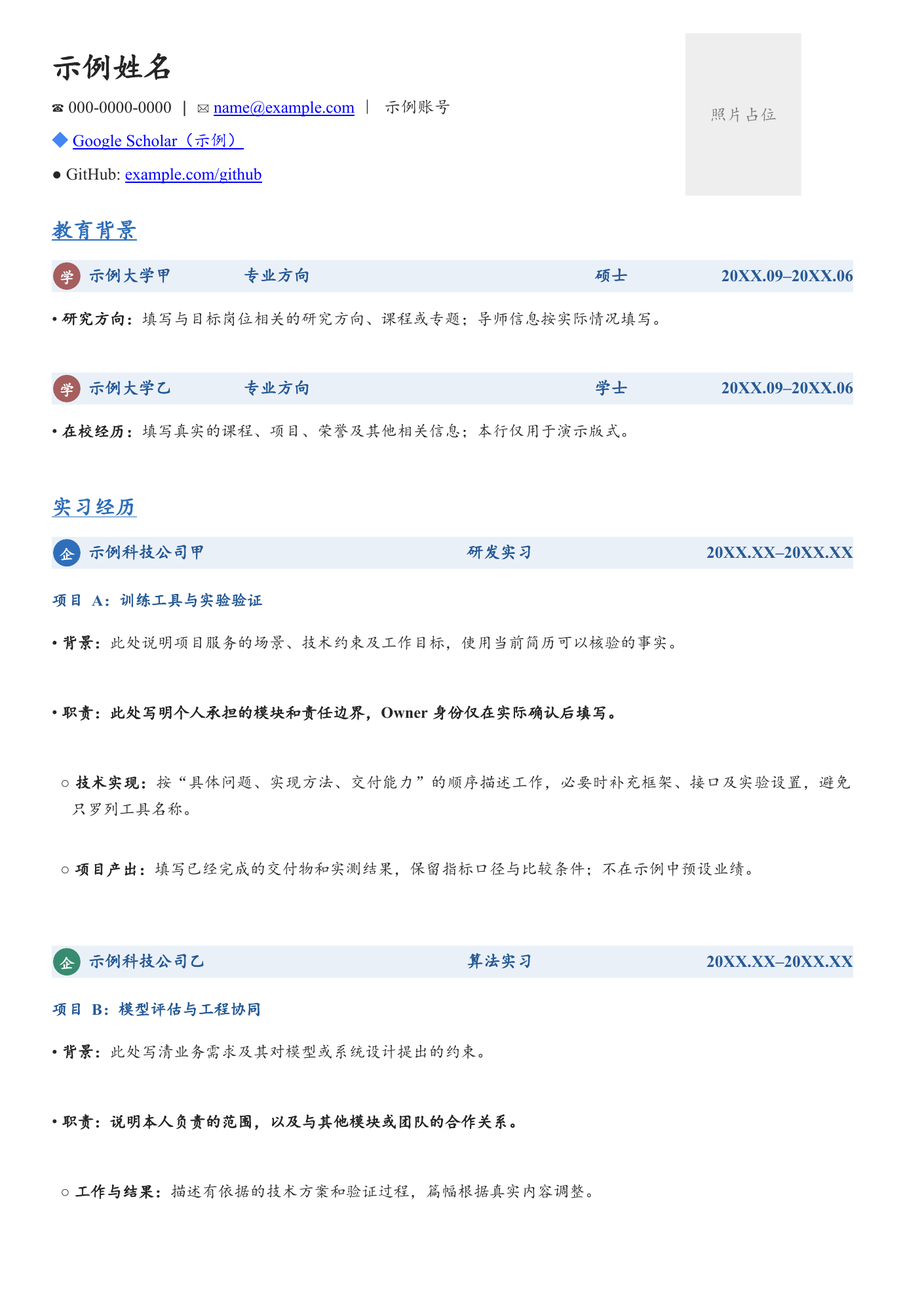
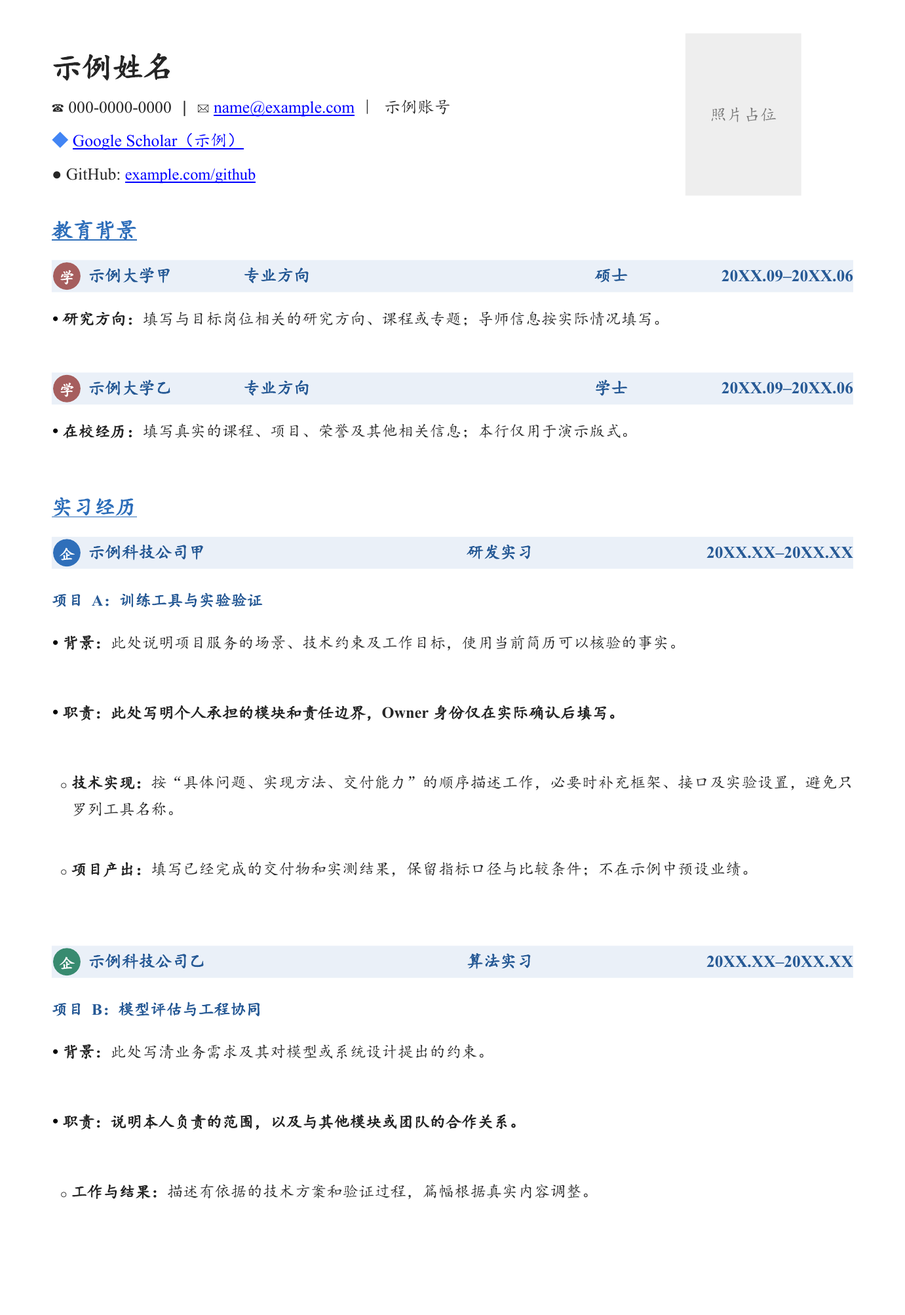
Enforce reference fonts and paragraph-level textboxes

diff --git a/scripts/docx_inventory.py b/scripts/docx_inventory.py
@@ -152,12 +152,71 @@ def relationships(archive, part):
     return result
 
 
+def summarize_structure(result):
+    """Describe logical paragraph ownership, not rendered lines or layout quality.
+
+    Indices refer to the existing, zero-based ``paragraphs`` list. Keep that
+    list unchanged for compatibility; whitespace-only entries are excluded
+    from these nonempty-paragraph statistics.
+    """
+    textboxes = {item["textbox_id"]: item for item in result["textboxes"]}
+    line_break_indices, body_indices, ordinary_body_indices = [], [], []
+    for index, paragraph in enumerate(result["paragraphs"]):
+        if not paragraph["text"].strip():
+            continue
+        context = paragraph["context"]
+        has_line_break = "\n" in paragraph["text"]
+        if has_line_break:
+            line_break_indices.append(index)
+        textbox_id = context["textbox_id"]
+        if textbox_id is not None:
+            textbox = textboxes[textbox_id]
+            textbox["paragraph_indices"].append(index)
+            if has_line_break:
+                textbox["line_break_paragraph_indices"].append(index)
+        elif context["story"] == "body":
+            body_indices.append(index)
+            if not context["in_table"]:
+                ordinary_body_indices.append(index)
+
+    for textbox in result["textboxes"]:
+        textbox["nonempty_paragraph_count"] = len(textbox["paragraph_indices"])
+        textbox["line_break_paragraph_count"] = len(textbox["line_break_paragraph_indices"])
+    multiple = [item["textbox_id"] for item in result["textboxes"]
+                if item["nonempty_paragraph_count"] > 1]
+    return {
+        "paragraph_index_base": 0,
+        "paragraph_index_source": "paragraphs",
+        "textbox_count": len(textboxes),
+        "nonempty_textbox_count": sum(bool(item["paragraph_indices"])
+                                      for item in result["textboxes"]),
+        "textbox_nonempty_paragraph_count": sum(item["nonempty_paragraph_count"]
+                                                for item in result["textboxes"]),
+        "multi_paragraph_textbox_count": len(multiple),
+        "multi_paragraph_textbox_ids": multiple,
+        "line_break_paragraph_count": len(line_break_indices),
+        "line_break_paragraph_indices": line_break_indices,
+        "body_nonempty_paragraph_count": len(body_indices),
+        "body_paragraph_indices": body_indices,
+        "ordinary_body_nonempty_paragraph_count": len(ordinary_body_indices),
+        "ordinary_body_paragraph_indices": ordinary_body_indices,
+        "limitations": [
+            "Counts use non-whitespace inline text in logical w:p paragraphs, after MC selection and accepted-view filtering.",
+            "Explicit w:br/w:cr stays inside its paragraph; automatic line wrapping is not a new paragraph.",
+            "Body counts exclude textboxes; ordinary body also excludes tables. Headers, footers, and notes are excluded from both.",
+            "Each textbox ID identifies one w:txbxContent in this inventory, not a persistent OOXML object ID.",
+            "These counts locate shared textboxes and explicit breaks; they do not establish independent movability, visibility, or layout quality.",
+        ],
+    }
+
+
 def inventory(filename):
     path = Path(filename).expanduser().resolve()
     raw = path.read_bytes()
     result = {"path": str(path), "sha256": hashlib.sha256(raw).hexdigest(),
               "paragraphs": [], "hyperlinks": [], "images": [], "anchors": [],
-              "vml_shapes": [], "math": [], "alternate_content": [], "warnings": []}
+              "vml_shapes": [], "math": [], "alternate_content": [], "warnings": [],
+              "textboxes": []}
     with zipfile.ZipFile(io.BytesIO(raw)) as archive:
         names = set(archive.namelist())
         package_rels = relationships(archive, "")
@@ -196,7 +255,10 @@ def inventory(filename):
                     result["warnings"].append(f"{part}: missing target {rel['resolved_target']}")
                 return dict(rel)
 
+            textbox_number = 0
+
             def walk(node, context):
+                nonlocal textbox_number
                 context = dict(context)
                 if node.tag in {q("w", "footnote"), q("w", "endnote")}:
                     context["note_id"] = node.get(q("w", "id"))
@@ -206,7 +268,18 @@ def inventory(filename):
                     dp = node.find(q("wp", "docPr"))
                     context["shape_id"] = dp.get("id") if dp is not None else None
                 if node.tag == q("w", "txbxContent"):
+                    # Grouped drawings can share shape_id. Identify the actual
+                    # content node after branch/revision selection instead.
+                    textbox_number += 1
+                    parent_textbox_id = context["textbox_id"]
+                    context["textbox_id"] = f"{part}#textbox-{textbox_number}"
                     context["container"] = "textbox"
+                    result["textboxes"].append({
+                        "part": part, "textbox_id": context["textbox_id"],
+                        "parent_textbox_id": parent_textbox_id,
+                        "context": dict(context), "paragraph_indices": [],
+                        "line_break_paragraph_indices": [],
+                    })
                 base = {"part": part, "context": dict(context)}
                 if node.tag == q("w", "p"):
                     value = text_of(node)
@@ -249,9 +322,11 @@ def inventory(filename):
                 for child in node:
                     walk(child, context)
 
-            walk(root, {"story": story, "container": "body", "in_table": False})
+            walk(root, {"story": story, "container": "body", "in_table": False,
+                        "textbox_id": None})
+    result["structure_summary"] = summarize_structure(result)
     result["counts"] = {key: len(result[key]) for key in (
-        "paragraphs", "hyperlinks", "images", "anchors", "vml_shapes", "math")}
+        "paragraphs", "hyperlinks", "images", "anchors", "vml_shapes", "math", "textboxes")}
     result["warnings"] = sorted(set(result["warnings"]))
     return result
 

diff --git a/references/layout.md b/references/layout.md
@@ -10,7 +10,7 @@
 
 样例只保留已确认的视觉参数，未复用用户原件中的文字、图片或二进制部件。所有人物、机构、经历、论文及日期均为虚构占位内容，所有链接使用 example.com 保留域名，照片为灰色占位框。机构和联系图标使用不指向真实个人或机构的示意符号；正式简历应替换为当前用户的真实材料和相应机构图标。
 
[2 lines of base64/hex data omitted]
 
 ## 必须保持的视觉特征
 
@@ -19,7 +19,7 @@
 3. 学校、公司抬头使用横贯正文宽度的主题浅色底条带，图标置左，机构名及专业或团队信息在左/中，学位、项目计划等在中后列对齐，日期靠右。
 4. 项目名采用同主题的深色变体加粗；背景、职责和技术分项采用圆点层级与加粗标签，正文清楚解释技术工作。
 5. 论文标题行使用英文衬线字体、斜体和适当加粗；突出当前简历作者的姓名，保留真实的共同一作等标记。其他论文形成紧凑列表。
-6. 标题、机构条带、项目内容与论文引用保留为原生可编辑对象，主要内容使用可移动文本框；不能用整页截图交付。
+6. 姓名、栏目标题、项目标题、每段正文、每条项目符号和每条论文引用分别使用原生独立文本框，能单独选中、编辑和移动；机构抬头按条分框并与背景、图标成组。不得把整段经历合成大框、改用表格单元格或整页截图交付。拆框粒度和检查方法见 [逐段独立文本框](word-editing.md#逐段独立文本框)。
 
 ## 图标派生配色
 
@@ -58,27 +58,49 @@
 | 页面 | 竖向，595.3 × 864.55 pt，约 210 × 305 mm；这是参考的自定义纸型，不称为标准 A4。用户指定 A4 时改为 A4 并重新排版。 |
 | 节页边距 | 左右 34 pt，上下 28.35 pt；浮动对象另有页面坐标，不能只用节边距推断实际左边界。 |
 | 主要内容宽度 | 527.3 pt；沿参考的实际内容左线对齐，按当前页宽与安全边界调整。 |
-| 中文字体 | 主要使用 KaiTi（楷体）。检查字体是否可用；如需兼容字体，使用接近的楷体并重新验证行数和分页。 |
-| 英文、数字 | Times New Roman；不要把英文技术名称统一改成无衬线字体。 |
+| 中文字体 | 姓名、栏目、机构、项目标题、正文、中文联系方式均为 KaiTi（楷体），包括中文标点。符号与公式除外。 |
+| 英文、数字 | Times New Roman，包括正文中的英文技术词、数字、机构抬头日期、论文及普通链接文字；不得统一成中文字体或默认无衬线字体。 |
 | 姓名 | 20 pt，黑灰色，加粗，左对齐。 |
 | 栏目标题 | 14 pt，可读主题色，加粗、下划线；下划线随标题，不延伸成横贯整页的大分隔线。 |
 | 机构抬头 | 11 pt，加粗，主题深色变体；保持同一条带内各字段的基线一致。 |
 | 项目标题 | 10.5 pt，加粗，主题深色变体；全篇同级项目保持一致。 |
-| 正文 | 主要为 10.5 pt，中文楷体、英文 Times New Roman，颜色 `#262626`；标签加粗，职责句可整体加粗，技术说明正文保持常规字重。 |
-| 联系信息 | 主要 11 pt；链接保持可点击及蓝色下划线，附属统计说明可以用 10 pt。 |
-| 论文题录 | 10.5 pt，Times New Roman，主要科研项目题录加粗、斜体；其他论文题录斜体、序号普通。当前作者名以可读主题色强调。 |
+| 正文 | 10.5 pt，中文楷体、英文 Times New Roman，颜色 `#262626`；标签加粗，职责句可整体加粗，技术说明正文保持常规字重。 |
+| 联系信息 | 电话、邮箱及 Scholar 主文字 11 pt；GitHub 标签 11 pt、URL 10.5 pt；Scholar 附属统计说明 10 pt。链接保持可点击及蓝色下划线，图标字号不套用为链接文字字号。 |
+| 论文题录 | 10.5 pt，中文 KaiTi、西文及数字 Times New Roman；主要科研项目题录加粗、斜体，其他论文题录斜体、序号普通。当前作者名以可读主题色强调。 |
+| 项目符号 | 一级实心符号用 Wingdings 的 `U+F09F`，10.5 pt；二级空心符号用 Courier New 的 `o`（`U+006F`），7.5 pt；符号字号不改变正文的 10.5 pt。使用原生编号定义与 `w:numPr`。 |
 | 机构条带底色 | 选定图标主色与白色混合；默认 10% 主色、90% 白色，可在 8–12% 主色间微调。无粗边框。 |
 | 机构条带尺寸 | 527.3 × 21.1 pt，文字左缩进 24 pt 为图标留空；长字段需要增高时保持字号和列关系。 |
 | 文本框内边距 | 通常左右 0、上下 2 pt，顶部对齐；框的存储高度不能替代渲染后的文字高度。 |
 
 不要把空白宿主段落的 1 pt 行距或其他不可见属性误当正文规范。读取任意源文档时，字号可能来自样式继承，不能只统计 `w:sz`。
 
+## 字体写入与验证
+
+字体表是需要落地的参数，不能只在说明中提及。整体任务对每个可见文字 run 设置以下映射，覆盖文本框、超链接及机构抬头里的文字；纯英文题录仍用 Times New Roman。
+
+```xml
+<w:rFonts w:ascii="Times New Roman" w:hAnsi="Times New Roman" w:eastAsia="KaiTi"/>
+<w:sz w:val="21"/>
+<w:szCs w:val="21"/>
+```
+
+上例是正文 10.5 pt；按上表将姓名、栏目、机构和联系方式替换为对应半磅值。只设置高层库的 `run.font.name` 通常只覆盖西文，必须同时设置 `w:eastAsia`；只改 Normal 样式不会覆盖已有 run 的直接格式。`w:szCs` 属于复杂文种字号，不能代替控制普通中西文的 `w:sz`。
+
+- 清理所修改文字的 `asciiTheme`、`hAnsiTheme`、`eastAsiaTheme` 等冲突主题字体属性，避免主题覆盖显式字体。每个 `rPr` 仅保留一个 `w:rFonts`，不反复追加重复节点。
+- 保留上表规定的粗体、斜体和下划线层级；不能把“统一字体”实现成所有文字同字号或全部加粗。
+- 项目符号或图标字形可使用其必要字体（如 Symbol、Wingdings），原生公式保留数学字体；它们是限定到对应字符的例外，不允许把整段文字变成符号字体。品牌图标继续使用图片或矢量对象。
+- 读取来源时分别解析 run 直接属性、字符样式、段落样式及 `basedOn` 链、`docDefaults` 和主题引用；不要用某个属性缺失推断成默认字体。写入输出时将目标字体与字号显式设置到文字 run，降低继承歧义。
+- 如同时存在 DrawingML 与 VML 兼容分支，同步对应可见内容的字体设置。检查编号定义的字符字体，不要漏掉超链接内部的 runs。
+- 渲染前确认环境实际有 KaiTi 和 Times New Roman，并检查字体匹配/替代结果。没有目标字体时先使用可用的合法字体资源；只能用兼容字体时说明具体替代并重新检查行宽、换行、页数。静默回退到宋体、等线或默认西文字体不算对齐完成。
+
+验收同时检查 OOXML 属性与渲染结果：前者证明指定了目标字体，后者确认使用环境没有缺字、替代或因此导致的换行漂移。逐类抽查姓名、栏目、机构、正文的中英混排、联系方式及论文；不能仅凭截图“看起来接近”通过。
+
 ## 行距、层级与对齐
 
 - 正文常用 1.2 倍行距（`w:line=288`、`lineRule=auto`）；不是固定 14.4 pt。采用同样字体字号后通过渲染确认实际行高。
 - 正文通常两端对齐，姓名和联系方式左对齐；段前段后以 0 为起点，内容块间空白通过框的位置和高度控制。不要用断字或连续空格制造两端对齐。
 - 联系方式采用约 18 pt 固定行高，使图标和文字基线稳定；机构条带的文字垂直居中。
-- 一级说明使用实心圆点；技术分项使用空心圆点、适度缩进，并将“训练管线搭建”“算法探索”“项目产出”等标签加粗。续行对齐正文起点，不回到圆点位置。
+- 一级说明使用实心圆点；技术分项使用空心圆点、适度缩进，并将“训练管线搭建”“算法探索”“项目产出”等标签加粗。按上表创建原生编号级别，不用 Arial 文字圆点模拟。续行对齐正文起点，不回到圆点位置。
 - 一级圆点正文左缩进 7.1 pt、悬挂 7.1 pt；二级默认可取左缩进 12.75 pt、悬挂 7.1 pt，参考另有左缩进 17 pt 的较深版本。新稿同级条目选定一种并统一，保持实心/空心两级差异。
 - 引用列表保留清楚的编号、作者、题名和出版信息；作者强调只作用于当前候选人，不能沿用标本中的姓名。
 - 保持统一左线和日期右线。教育条带可按“图标/学校—专业—学位—日期”，实习条带可按“图标/公司团队—计划或岗位—日期”。字段宽度按真实文字调整，不靠连续空格凑列。
@@ -108,7 +130,7 @@
 
 - 只从**已脱敏样例**复制样式、文本框或条带结构，再替换为当前内容；也可以在最新文档中应用参数。不得将用户原件或截图打包进 skill，也不得通过旧生成脚本覆盖当前用户修改。
 - 机构条带包含背景、图标、文字的分组结构。修改现有条带时尽量保持分组，避免拆散后各部分错位；新条带使用同样可编辑的结构。
-- 项目正文可按逻辑段落成框；相关标题与正文保持可辨认的层级。联系方式、日期与图标关系需在改变宽度后重新验证。
+- 项目正文逐逻辑段落分框，每条一级/二级项目符号也是独立框；标题、正文与每篇论文分别成框。按 [拆框规则](word-editing.md#逐段独立文本框) 检查内容单元与框的一一对应。联系方式、日期与图标关系需在改变宽度后重新验证。
 - 导入任何材料时，检查 `INCLUDEPICTURE`、缓存大图、隐藏对象和缩略图等内容。脱敏不能只替换可见文字；不得把这些未检查的部件复制进样例。
 - 先按选定图标替换所有主题字体、条带、下划线及装饰线，再保持同类元素的字号、边界与基线一致，再根据内容调高度。核对标题、条带、字体、缩进、日期和图片六类视觉参数，不能把“文字内容没丢”当作版式合格。
 - 渲染所有页面并与参照并排观察。目标是复现层级、颜色用途及深浅关系、密度和对齐；实际色值随当前选定图标改变，不以与样例颜色相同作为验收条件。

diff --git a/references/word-editing.md b/references/word-editing.md
@@ -6,21 +6,33 @@
 
 将指定保留区域记录下来。对只加一个图标或恢复一行的任务，优先做局部修改；复杂文本框、分组和兼容分支经由高层库重新保存，可能出现与请求无关的变化，可使用范围清楚的 OOXML 补丁并保留其他 ZIP 部件。
 
-保留文字的运行级属性、字段、公式、超链接、编号、批注与修订状态。不要为方便处理而接受全部修订、删除批注或将公式转成图片。若修订视图影响了内容依据，先明确应核对的视图。
+局部任务保留未涉及的运行级格式。整体任务保留有意义的粗斜体强调以及字段、公式、超链接、编号、批注与修订状态，同时按目标版式写入字体、字号和颜色，不能因照搬原 `rPr` 而沿用旧字体。不要为方便处理而接受全部修订、删除批注或将公式转成图片。若修订视图影响了内容依据，先明确应核对的视图。
 
 ## 整体任务的默认版式
 
 完整优化、新生成或统一格式时，按 [定稿版式规范](layout.md) 实现由一段经历图标派生的统一主题色及浅色条带，保留字体层级、日期对齐和图标体系。查看其两页脱敏图片，按需要读取脱敏样例 DOCX 的样式与对象；样例决定结构与深浅关系，实际颜色按当前选定图标替换，不能强制沿用样例颜色。局部任务继续以当前稿为版式依据。
 
-## 段落拆为独立文本框
+## 逐段独立文本框
 
-采用默认定稿版式的整体任务，使用可编辑、可单独调整位置的文本框；用户要求流式正文时以其要求为准。局部修改不额外转换未涉及的区域。按逻辑内容单元拆分，不按渲染后的每一行拆分；保留段内换行、样式、编号与链接。标题、经历抬头、项目正文、论文引用可以分别成框，条带中的图标和标签可以合理分组。
+采用默认定稿版式的整体任务，必须逐段建立原生文本框，可分别选中、编辑和移动；用户明确要求流式正文时以其要求为准。局部修改不额外转换未涉及的区域。先列出内容单元，再建框，不按渲染后的每一行拆分。
+
+| 内容单元 | 拆分要求 |
+| --- | --- |
+| 姓名、栏目标题、项目标题 | 每项单独一个文本框，标题与后续正文分开。 |
+| 联系方式 | 每个设计行一个文本框；同一行的图标、链接及分隔符留在一起。 |
+| 学校/公司抬头 | 每条一个可编辑抬头文本框，背景和图标可以与它组成一组；不同经历不得共用一个组。 |
+| 背景、职责、技术实现、成果等正文 | 每个非空逻辑段落一个文本框；每条一级、二级项目符号也分别成框，标签与该段正文留在同一框。 |
+| 论文题录 | 每篇论文一个文本框，作者、标题、会议信息及链接可以共同换行；不同论文分框。 |
+
+例如“项目标题 + 背景 + 职责 + 两条技术分项 + 结果”应有 6 个独立文本框。一个条目自然折成两三行仍是一个框；同一框用多个 `w:p` 或 `w:br` 塞入多个条目仍未完成拆分。不能用整页/整段经历大框、表格、图片或整页分组替代逐段对象。仅限同一条带的背景、机构图标和抬头进行必要分组；项目各段不要锁在一个大组里。
 
 1. 清点正文、表格单元格、已有文本框、公式、图片和页眉页脚。只读取高层库的 `Document.paragraphs` 会漏掉一部分对象。
 2. 在字体正确的环境渲染源文件，记录页号与几何位置。PDF 可辅助获取位置；文本匹配分数高只能说明大部分对齐，不能证明没有漏掉某个短抬头。
 3. 为新文本框设置可解释的名称、唯一对象 ID、锚点、页内坐标、宽高、内边距和换行方式。不同形状有不同坐标参照，分组内部还可能存在缩放与偏移；不能把所有坐标都当页面坐标。
 4. 保留照片等独立对象以及与正文的关系。文本框能否完整容纳内容以实际渲染为准，`autoFit` 或固定高度本身不构成保证。
 5. 核对内容逐项覆盖和每页视觉结果。跨页段落需专门处理，不能把横跨两页的文字塞入一个固定高度形状。
+
+拆分前后保留段内 run、超链接、原生公式、粗斜体和完整字符。复制 OOXML 段落后，按 [字体写入与验证](layout.md#字体写入与验证) 处理整体任务的字体，避免源段落的直接格式覆盖定稿字体。创建文档后清点每个 `w:txbxContent` 的非空段落，连同普通正文与手动换行逐项检查；不能只确认文件“含有文本框”。
 
 恢复缺失行时：从用户指定的权威文字来源确认内容，在最新版中定位邻近项目，复用对应的样式和结构。只有恢复确实需要腾出空间时才移动附近对象，不把整页恢复成旧版。
 
@@ -54,6 +66,10 @@
 ## 用清单检查遗漏
 
 `scripts/docx_inventory.py` 是标准库只读脚本，可清点正常显示分支中的段落文字、公式文本、符号、链接与媒体。它按部件解析关系，并区分嵌套文本框与外层宿主段落，避免重复计数。比较时会报告空白归一化后的段落增减及字符计数差异。
+
+拆框检查使用 `textboxes` 和 `structure_summary`：每个 `w:txbxContent` 有独立 `textbox_id`，对应段落的 `context.textbox_id` 和每框零基 `paragraph_indices` 可以定位多段共框；同组的两个框也分别计数。汇总区分文本框、普通正文及表格正文，并标记显式换行。逐项检查多段框、仍在普通正文/表格中的目标内容和用换行拼接的条目。编号符号由 `numbering.xml` 控制，不计为额外正文段落。
+
+这些结构数据只是定位线索：一个框内的一段文字也可能通过手动换行拼接了多个内容单元；多个框也可能锁在同一大组中。样例有 39 个文本框，包括照片和机构图标的占位文字；这个数量不是新简历的目标。应核对实际内容与可独立移动的对象，不要求所有新文档都凑成相同框数。
 
 用法：
 

diff --git a/README.md b/README.md
@@ -5,11 +5,12 @@
 ## 能做什么
 
 - **经历专业化**：组织业务背景、技术难点、个人职责和成果；根据已确认事实明确项目 Owner 的责任范围。
-- **统一排版**：采用楷体与 Times New Roman、可编辑文本框、机构条带、分级标题、图标联系方式和右对齐日期。
+- **字体与字号对齐**：中文楷体，英文及数字 Times New Roman；姓名 20 pt、栏目 14 pt、机构抬头 11 pt、项目标题与正文 10.5 pt，落实到文字 run 并检查渲染时的字体替代。
+- **逐段独立文本框**：每个标题、正文段落、项目符号条目和论文条目分别成框，可单独移动；机构抬头与图标、条带保持合理分组。
 - **从经历图标取色**：选择一段经历的图标作为全篇主题来源，派生标题深色与条带浅色。
 - **局部精修与补漏**：尊重最新手工修改，支持恢复缺失内容、补充图标、调整联系方式，并核对文字与版面。
 
-只改一句话时直接提供文案；完整优化或生成 Word 简历时执行内容与版式双重检查。专业化表达以已有事实为依据，不编造职责、指标或成果。
+只改一句话时直接提供文案；整份 Word 简历润色、完整优化或生成时，同时执行字体写入、逐段拆框与内容检查。用户明确要求保留格式或只改局部时遵守其范围。专业化表达以已有事实为依据，不编造职责、指标或成果。
 
 ## 安装
 
@@ -37,7 +38,7 @@ git clone https://github.com/Dylanwga/GoddessReSUme.git ~/.codex/skills/goddessr
 使用 $goddessresume，在 GitHub 链接前补一个图标，保持原链接和其他排版。
 ```
 
-Word 文件处理需要可用的 DOCX 编辑、字体和渲染能力；若环境提供 documents 技能，可配合使用。附带的清点脚本仅依赖 Python 标准库，可检查 OOXML 文本、对象与链接，不能替代视觉检查。
+Word 文件处理需要可用的 DOCX 编辑、字体和渲染能力；若环境提供 documents 技能，可配合使用。附带的清点脚本仅依赖 Python 标准库，可检查 OOXML 文本、对象与链接，并定位普通正文、多段共框和手动换行；它不验证字体，也不能替代视觉检查。
 
 ## 版式预览
 
